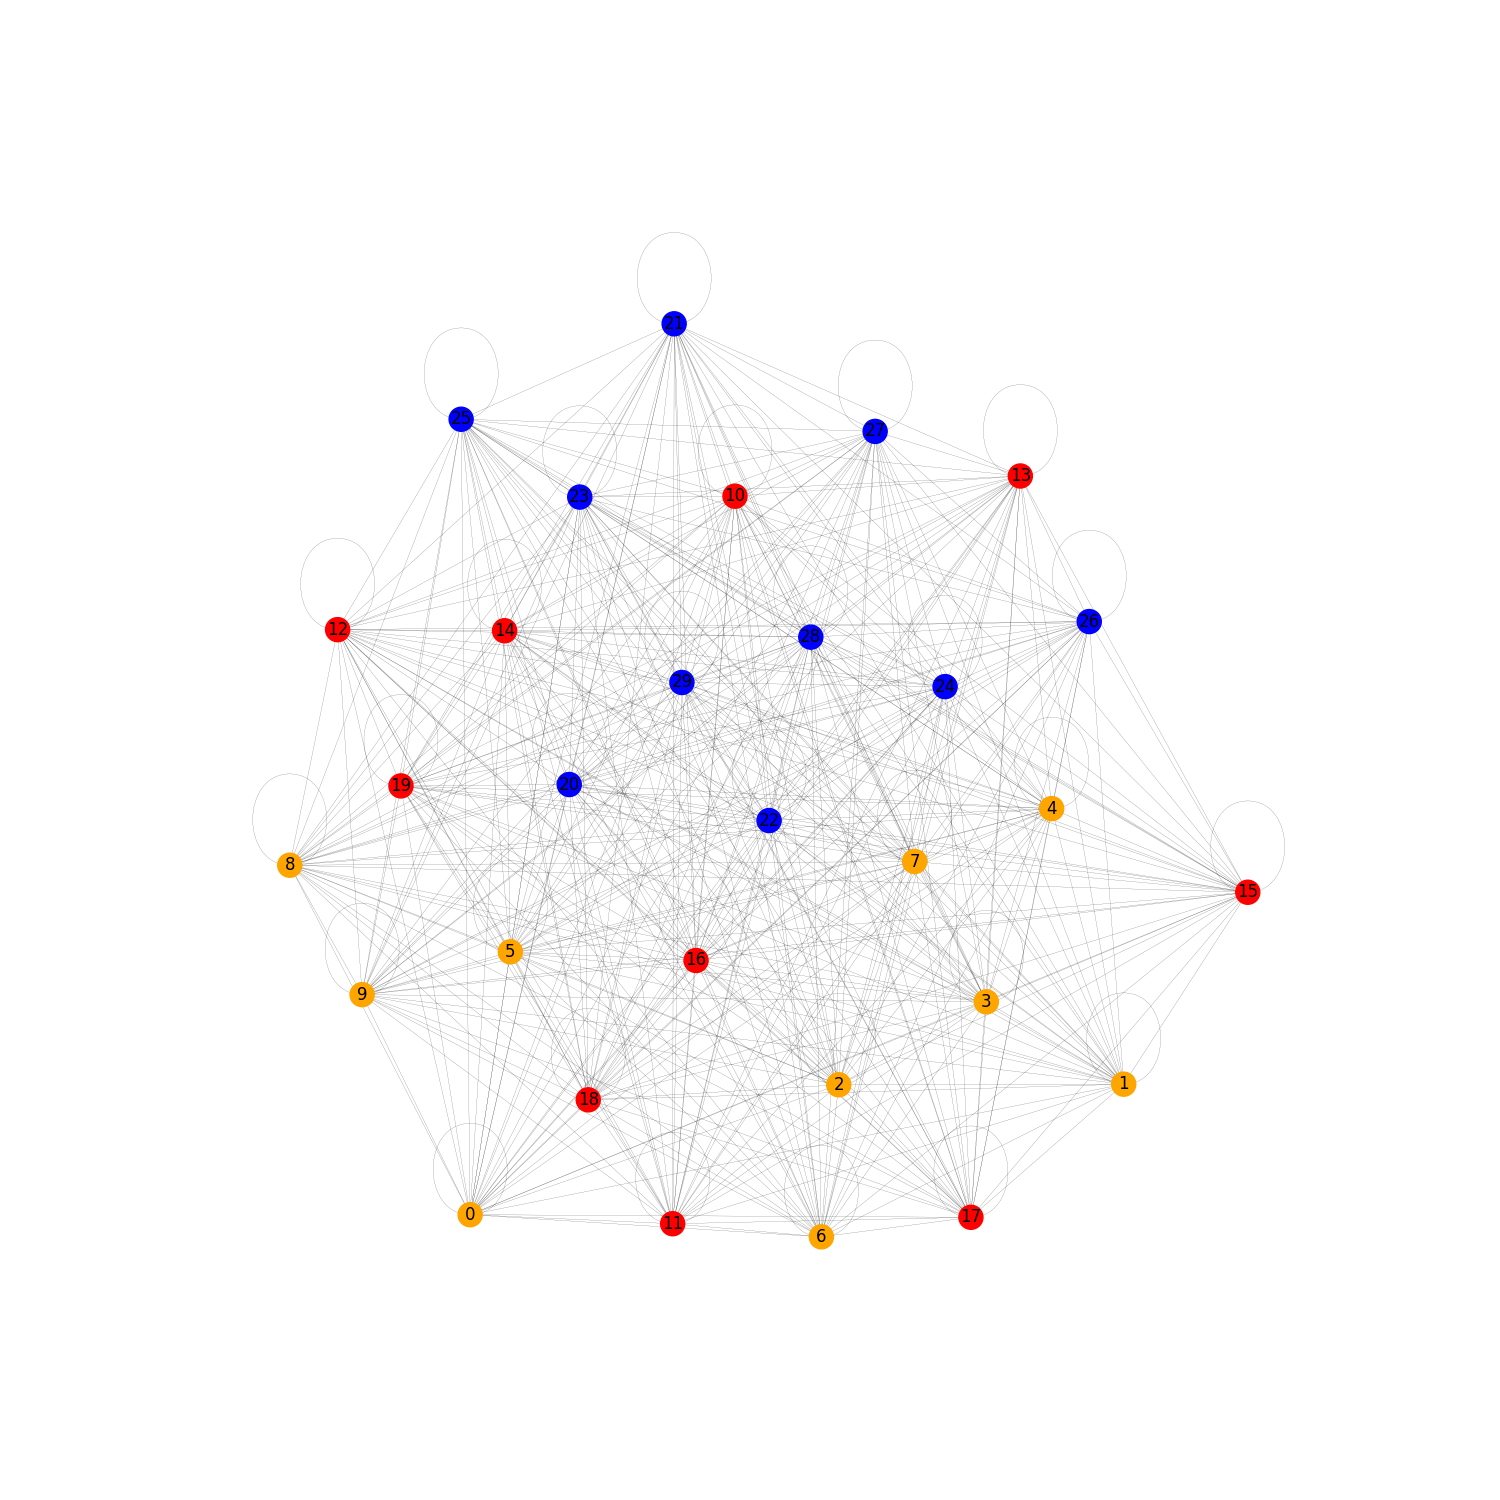
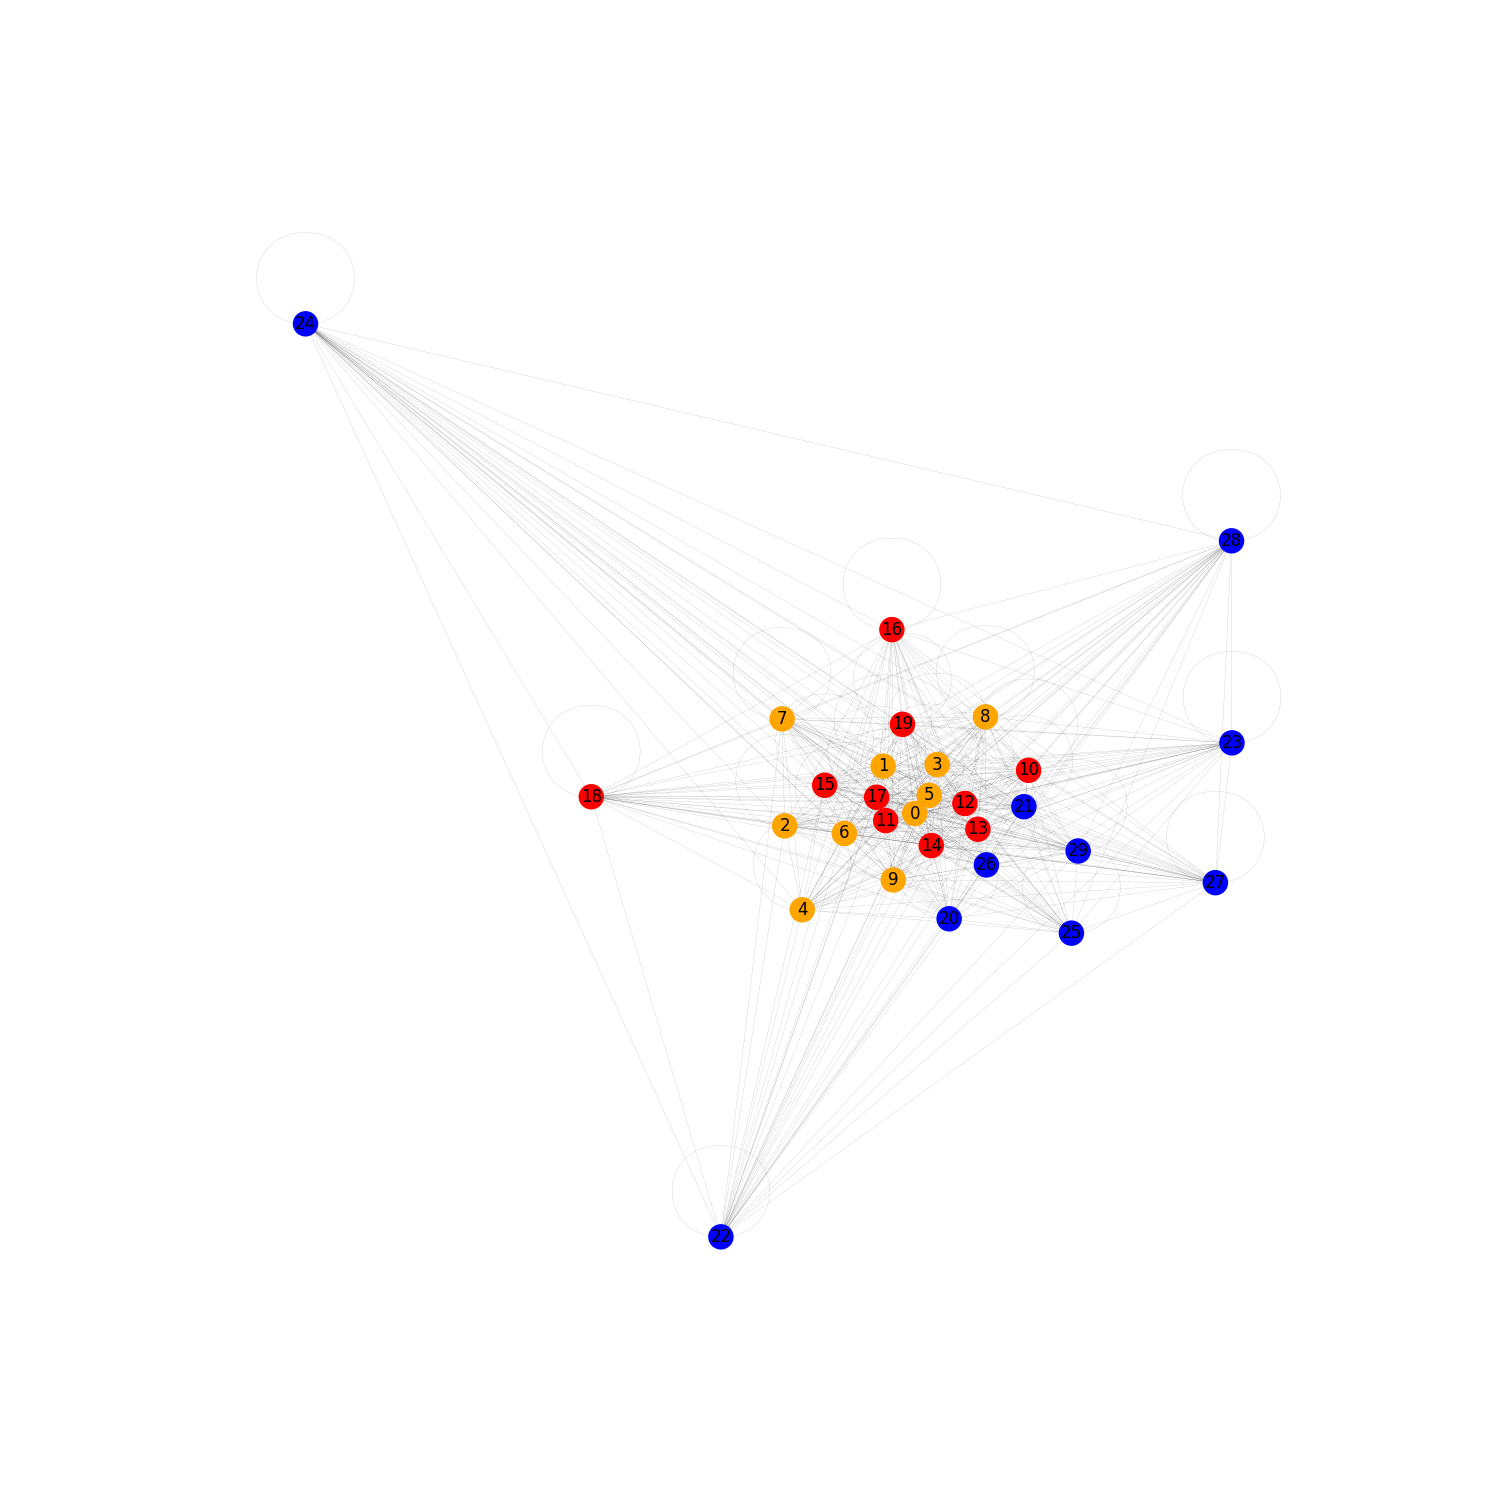
kernel visualization

diff --git a/visualization/calcKernel.py b/visualization/calcKernel.py
@@ -86,7 +86,7 @@ class cKernel():
         return sum(distances)/len(distances) if len(distances)>0 else 0
     def calc_matrix(self):
         matrix=[]
-        trkn=tk.KernelSST(0.4) ## lambda=0.4 was good in paper
+        trkn=tk.KernelSST(1) ## lambda=0.4 was good in paper
         for i in range(len(self.trees)):
             matrix.append([])
             for j in range(len(self.trees)):
@@ -102,7 +102,7 @@ class cKernel():
         G = nx.from_numpy_matrix(A)
         pos = nx.spring_layout(G,iterations=5000)#エッジの重さが大きいほど近くなる
         node_color = ["orange" for i in range(10)] + ["red" for i in range(10)] + ["blue" for i in range(10)]
-        nx.draw_networkx(G,pos=pos,node_color=node_color,width=0.1)
+        nx.draw_networkx(G,pos=pos,node_color=node_color,width=0.05)
         plt.axis("off")
         plt.savefig("kernel.png")
 
